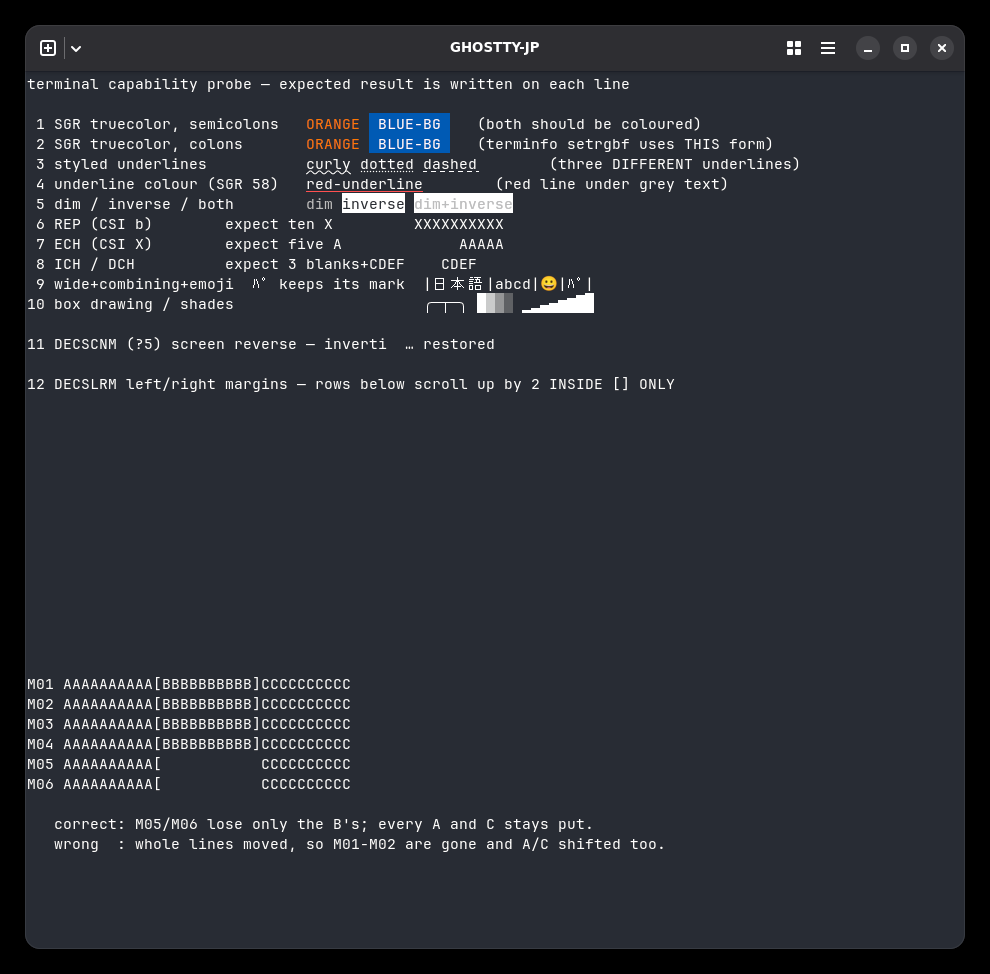
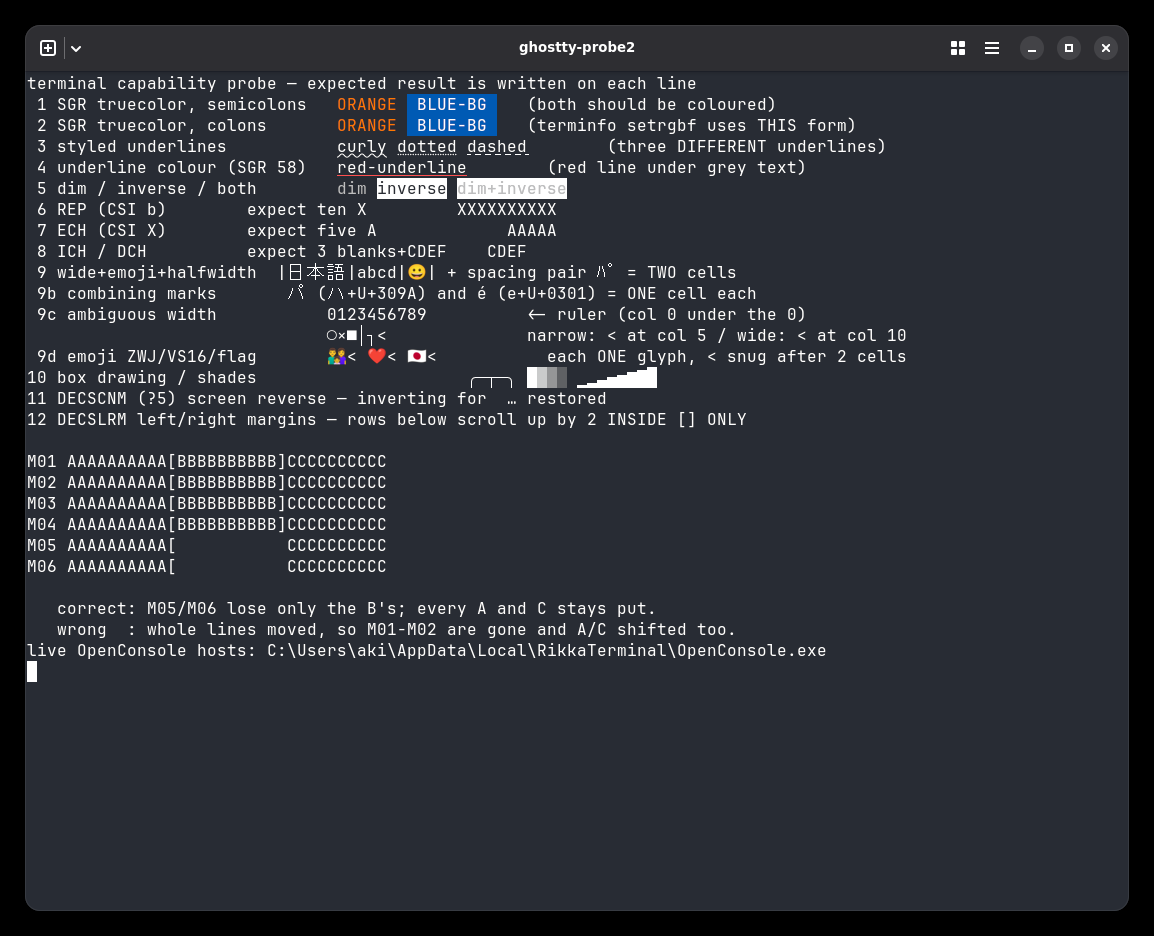
docs(compat): ghostty 1.3.1 re-measured — clean sweep, terminfo promise holds
Re-shot through WSLg as 1.3.1~ppa2 — the exact version RikkaTerminal's
XTVERSION self-report names. Twelve of twelve again with SGR 58 in exact
(255,80,80), and every glyph row passes: spacing pair side by side, パ/é
compose, ambiguous narrow, and 9d whole — ZWJ family one glyph, VS16 heart,
flag actually drawn. Ghostty and RikkaTerminal are now the only two
terminals on the page passing 9d in full, which is the right shape for the
terminal and the terminfo entry it answers to.

The old paragraph praising ghostty for "keeping the mark" on row 9 judged
the mislabeled combining test; replaced with a pointer to the correction.

Assisted-by: multi-agent-shogun-aki-tweak

diff --git a/docs/compat/README.md b/docs/compat/README.md
@@ -144,9 +144,8 @@ two narrow cells side by side, and a true combining mark (`ハ` + U+309A),
 whose correct rendering is one wide cell with the ring attached. Re-run
 under the corrected probe, Windows Terminal and RikkaTerminal both render
 both correctly — including Windows Terminal's half-width ring, which is
-drawn small and high and had been misread as dropped. The wezterm, ghostty
-and alacritty captures predate the split; their row-9 entries describe the
-spacing pair only.
+drawn small and high and had been misread as dropped. The wezterm captures
+predate the split; their row-9 entries describe the spacing pair only.
 
 The mislabeled test earned its keep anyway. Treating two spacing characters
 as if they combined is a real failure mode — rio 0.4.2 did exactly that,
@@ -314,16 +313,24 @@ is ghostty itself, answering the same probe:
 
 ![ghostty running the probe](probe-ghostty.png)
 
-**Twelve of twelve**, with the SGR 58 underline measuring 117 px of exactly
-`(255, 80, 80)` — the same reading RikkaTerminal gives. So the entry we claim
-is one the reference implementation honours in full, and claiming it does not
-overstate what we do.
+**Twelve of twelve**, with the SGR 58 underline in exact `(255, 80, 80)` —
+the same reading RikkaTerminal gives. So the entry we claim is one the
+reference implementation honours in full, and claiming it does not overstate
+what we do.
 
-Row 9 is the one worth looking at closely. ghostty **keeps the mark on
-`ﾟ`**: the half-width katakana and its combining semi-voiced mark come out
-composed, the same as RikkaTerminal and unlike Windows Terminal, which drops
-the mark. That is the row where the three-way comparison actually has
-something to say, so it is worth having real glyphs rather than tofu here.
+Re-shot 2026-08-10 as ghostty 1.3.1 (`1.3.1~ppa2-resolute1`, the very
+version RikkaTerminal's XTVERSION self-report names) under the current
+probe, through WSLg — a real Linux pty, no console host anywhere in the
+path, which the attestation line corroborates by listing no OpenConsole of
+its own. The glyph rows all pass: the spacing pair sits side by side with
+the ring drawn small and high, パ and é compose into single cells,
+ambiguous advances narrow, and row 9d is a clean sweep — ZWJ family as one
+glyph, VS16 heart in emoji presentation, the flag actually drawn. Ghostty
+and RikkaTerminal are the only two terminals on this page that pass 9d
+whole, which is the right shape for a terminal and the terminfo entry it
+answers to. (An earlier revision of this paragraph praised ghostty for
+"keeping the mark" on the row-9 pair — that was the mislabeled combining
+test; see the row 9 correction above.)
 
 Details worth knowing before re-running it:
 
